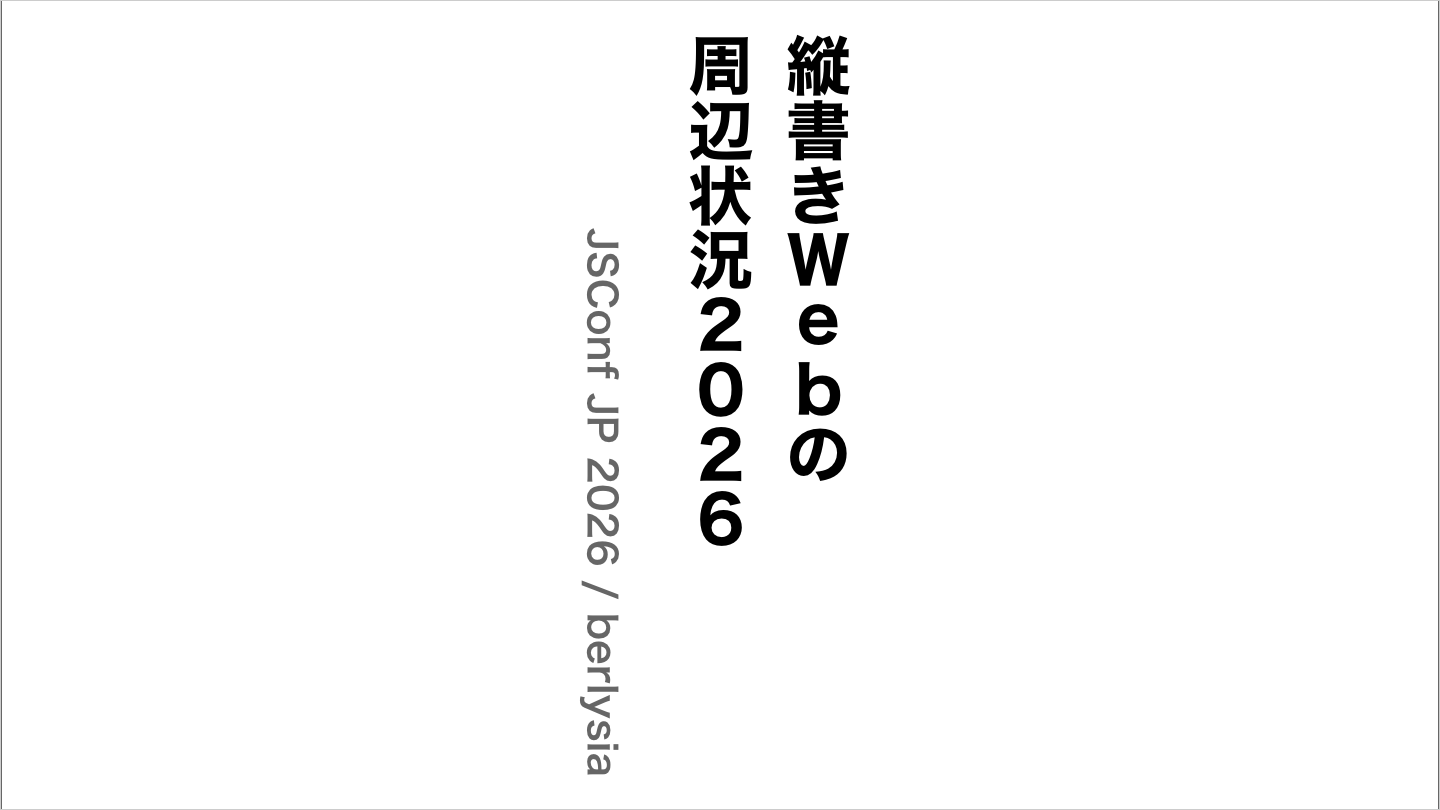
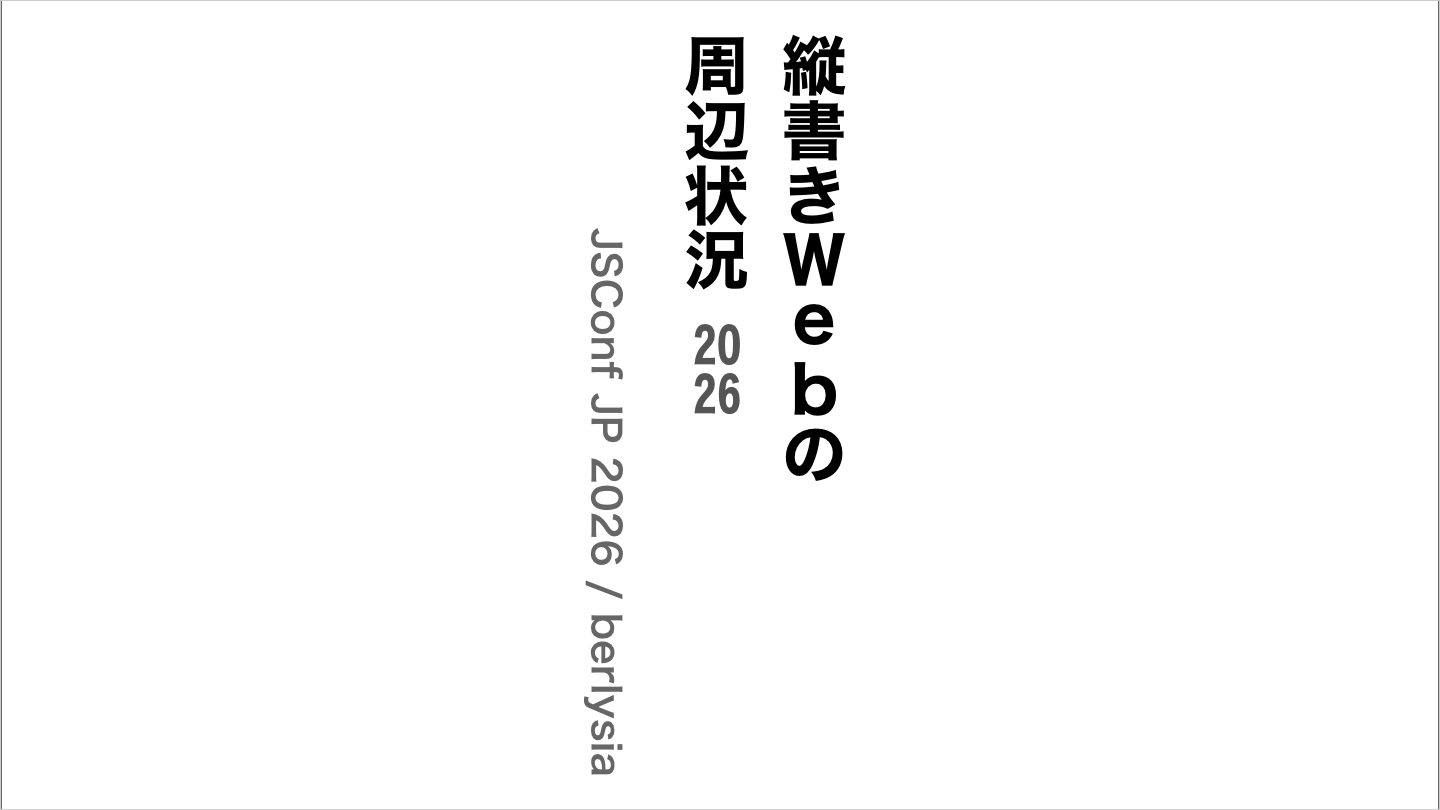
feat(slides): split jsconfjp2026 title from its year
intent: read the deck name and the year as two separate pieces on the
  title slide and in the OGP image
decision: set 2026 after 周辺状況 in a smaller grey tate-chu-yoko instead
  of a separate column, so it stays attached to the title

Changed region(s): [[0.4688, 0.0309, 0.5938, 0.679], [0.4062, 0.2778, 0.4375, 0.9568]]

diff --git a/slides/jsconfjp2026-vertical-writing-web-2026/index.md b/slides/jsconfjp2026-vertical-writing-web-2026/index.md
@@ -585,7 +585,7 @@ u.bousen {
 <div class="wrapper center">
 
 <div style="display: flex; flex-direction: column; inline-size: calc(100cqh - var(--space-wrapper) * 2); gap: 4cqh;">
-  <h1 class="upright" style="overflow: visible; font-size: 1.6em">縦書きＷｅｂの<wbr />周辺状況２０２６</h1>
+  <h1 class="upright" style="overflow: visible; font-size: 1.6em; margin: 0;">縦書きＷｅｂの<br />周辺状況<span style="display: inline-block; margin-inline-start: 0.6em; font-size: 0.75em; color: #555;"><span class="tcu-all">20</span><span class="tcu-all">26</span></span></h1>
   <div style="font-size: 4.8cqh; color: #666; text-align: end;">JSConf JP 2026 / berlysia</div>
 </div>
 
